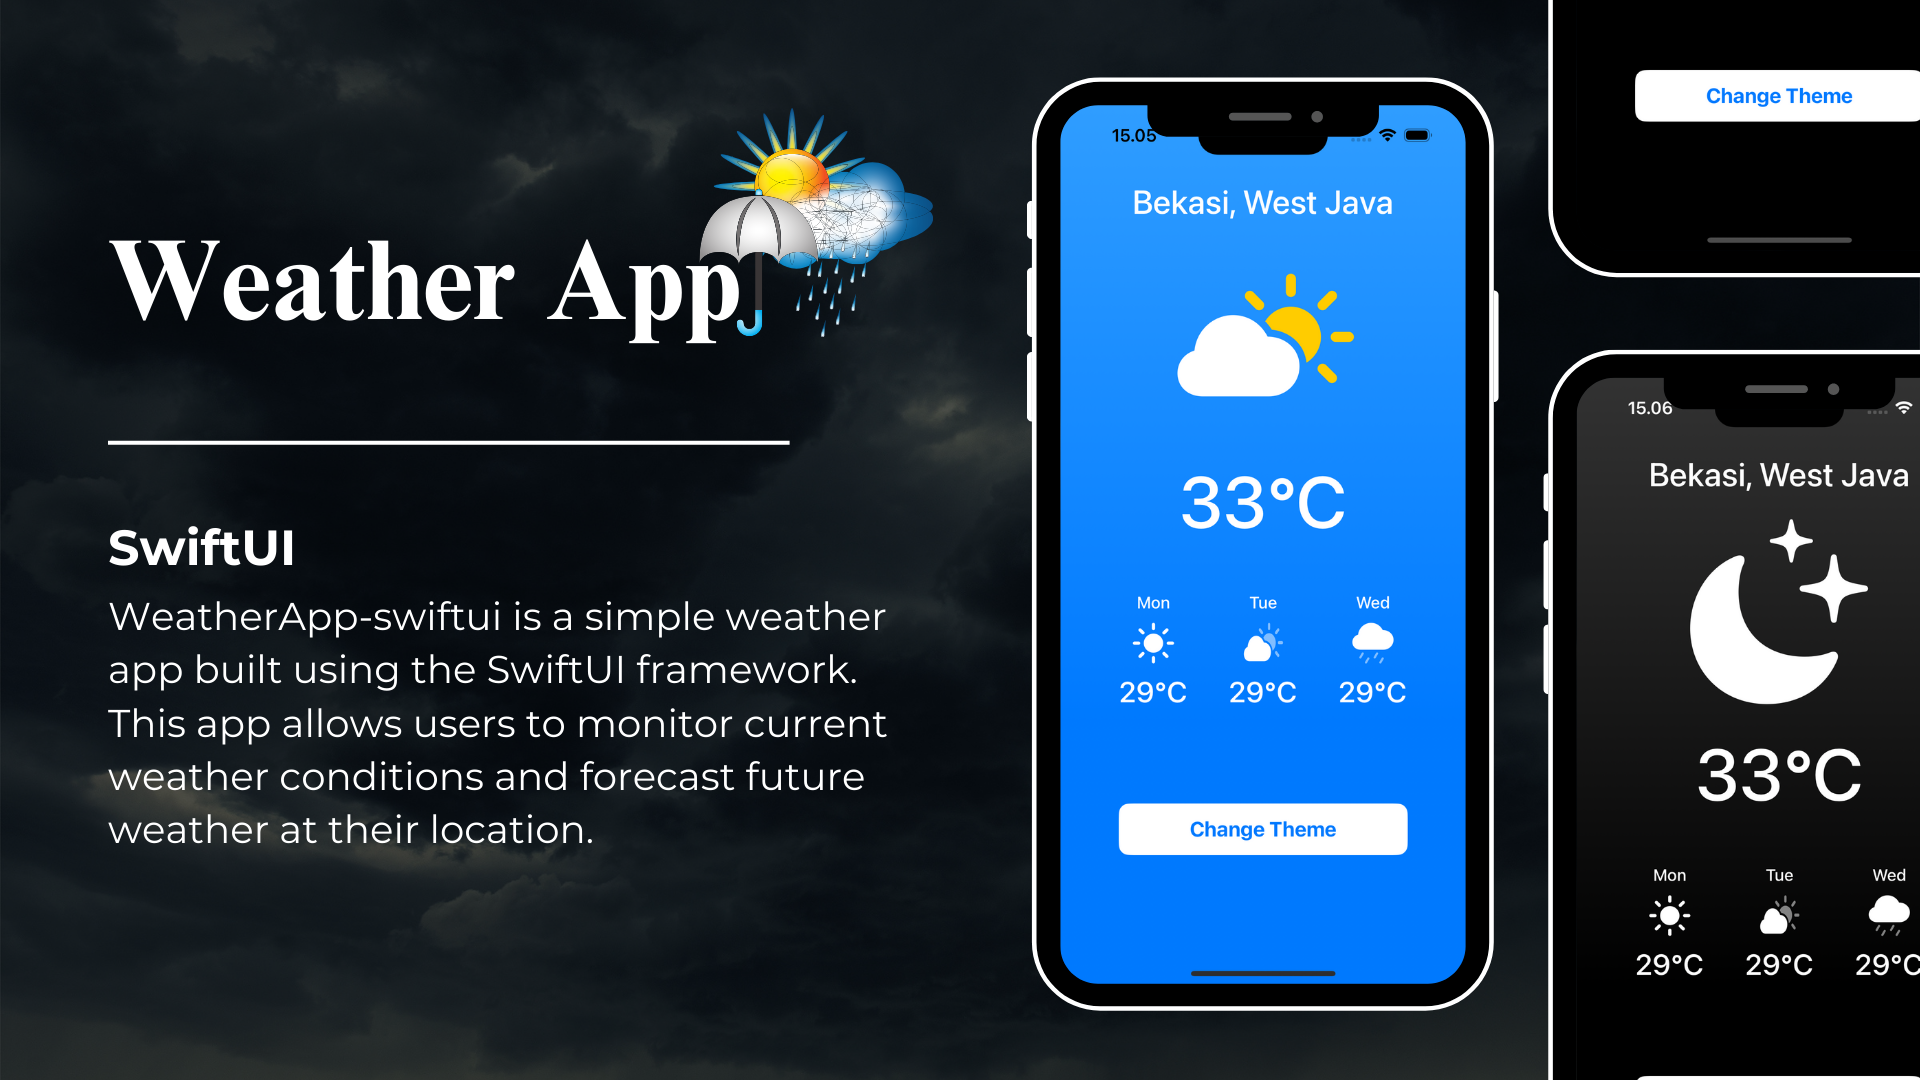
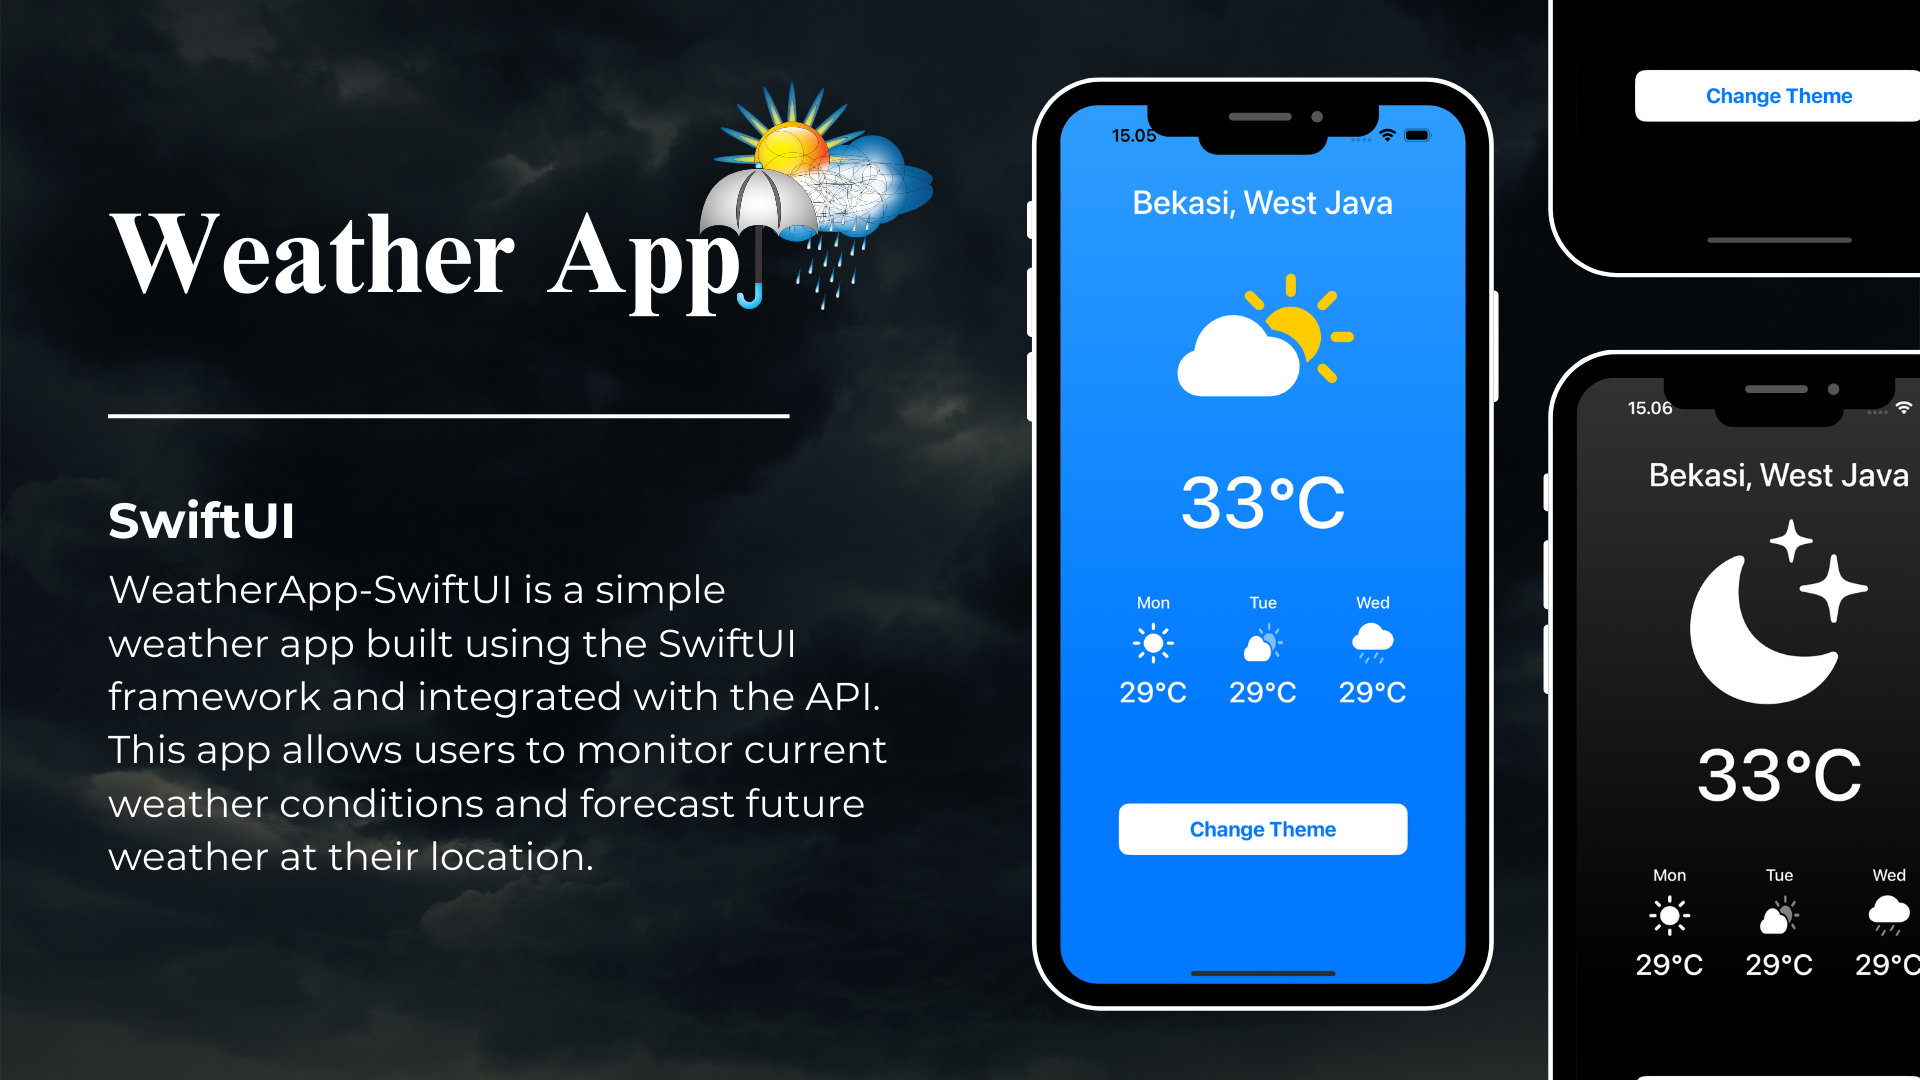
feat: update description readme.md

Changed region(s): [[0.0625, 0.4583, 0.4688, 0.825], [0.0625, 0.0917, 0.5, 0.3361], [0.0625, 0.3667, 0.4062, 0.4278]]

diff --git a/README.md b/README.md
@@ -1,6 +1,6 @@
 # WeatherApp-SwiftUI
 
-WeatherApp-SwiftUI is a simple weather app built using the SwiftUI framework. This app allows users to monitor current weather conditions and forecast future weather at their location.
+WeatherApp-SwiftUI is a simple weather app built using the SwiftUI framework and integrated with the API. This app allows users to monitor current weather conditions and forecast future weather at their location.
 
 ![Light Home Screen](./assets/images/readme/mockup.png)
 
